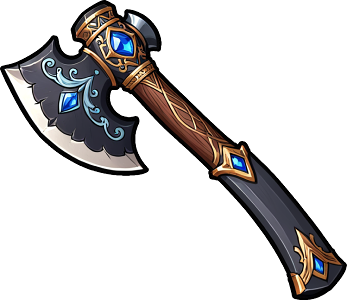
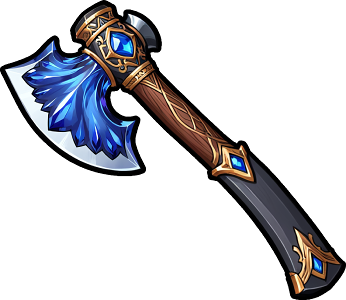
update crystal axe graphics

diff --git a/SonOfRobin.Core/Game/Animation/AnimData.cs b/SonOfRobin.Core/Game/Animation/AnimData.cs
@@ -1395,7 +1395,7 @@ namespace SonOfRobin
 
                 case PkgName.AxeCrystal:
                     {
-                        animPkg = MakePackageForSingleImage(pkgName: pkgName, width: 347, height: 300, scale: 0.1f, layer: 0, animSize: 0, altasName: "axe_crystal", hasOnePixelMargin: false);
+                        animPkg = MakePackageForSingleImage(pkgName: pkgName, width: 346, height: 300, scale: 0.1f, layer: 0, animSize: 0, altasName: "axe_crystal", hasOnePixelMargin: false);
                         break;
                     }
 
